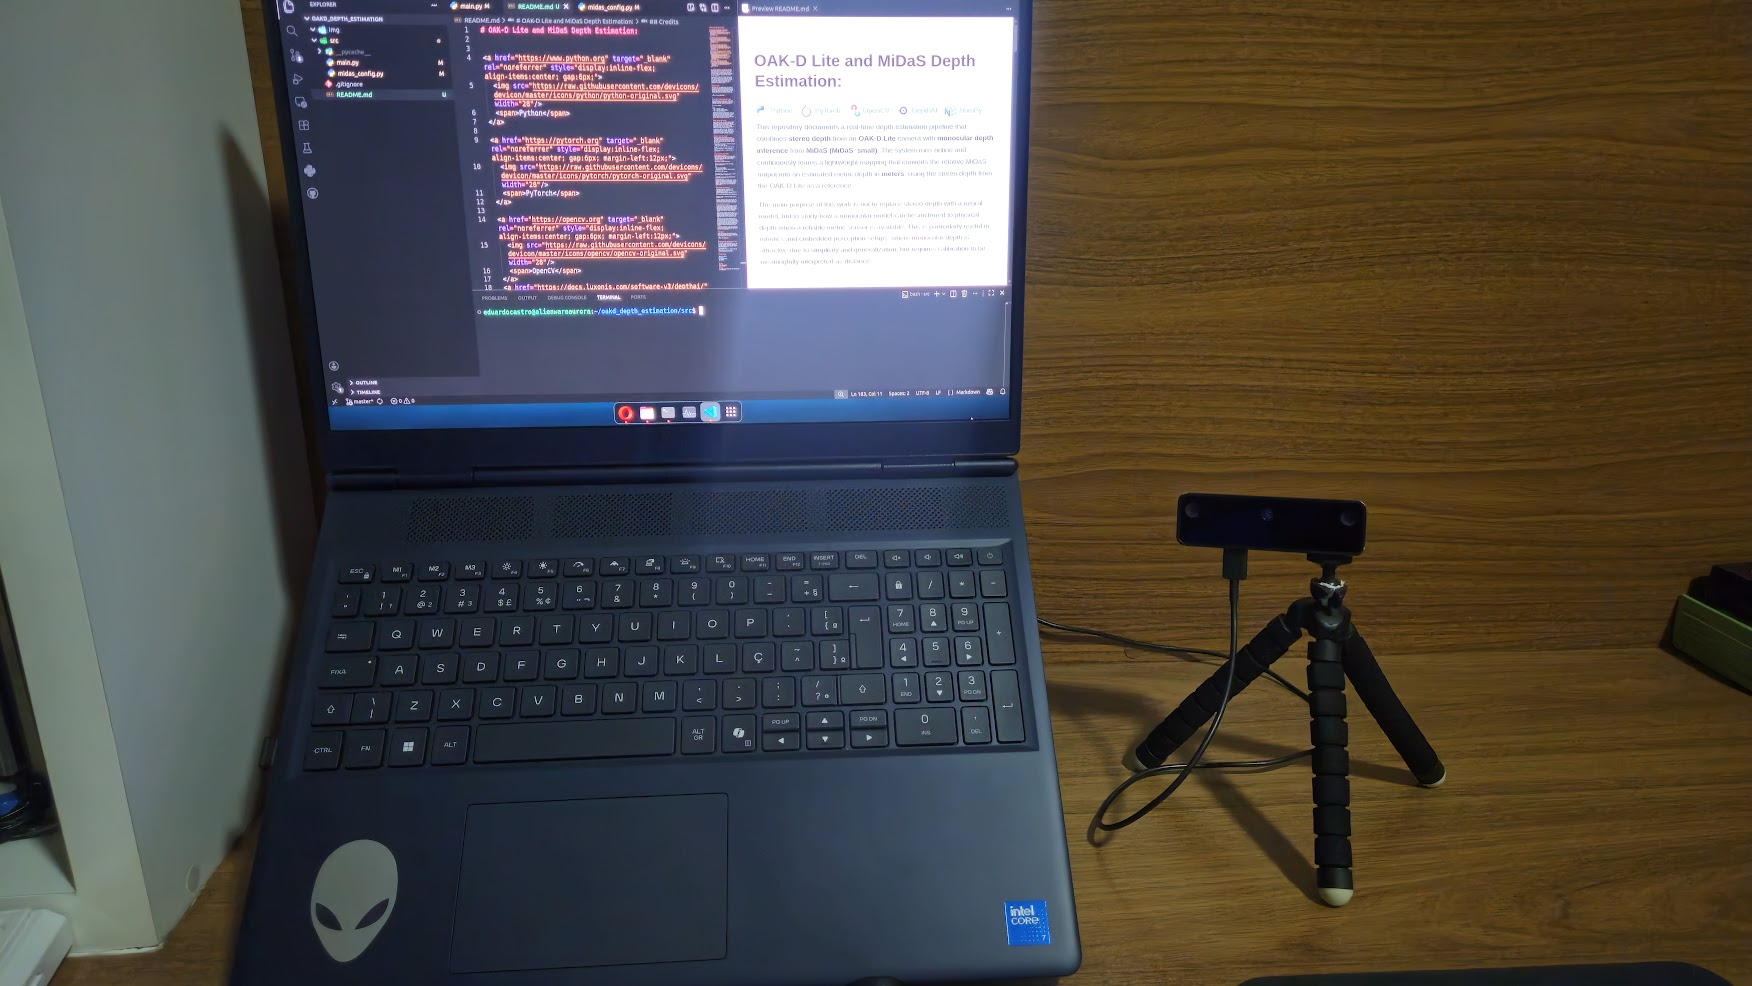
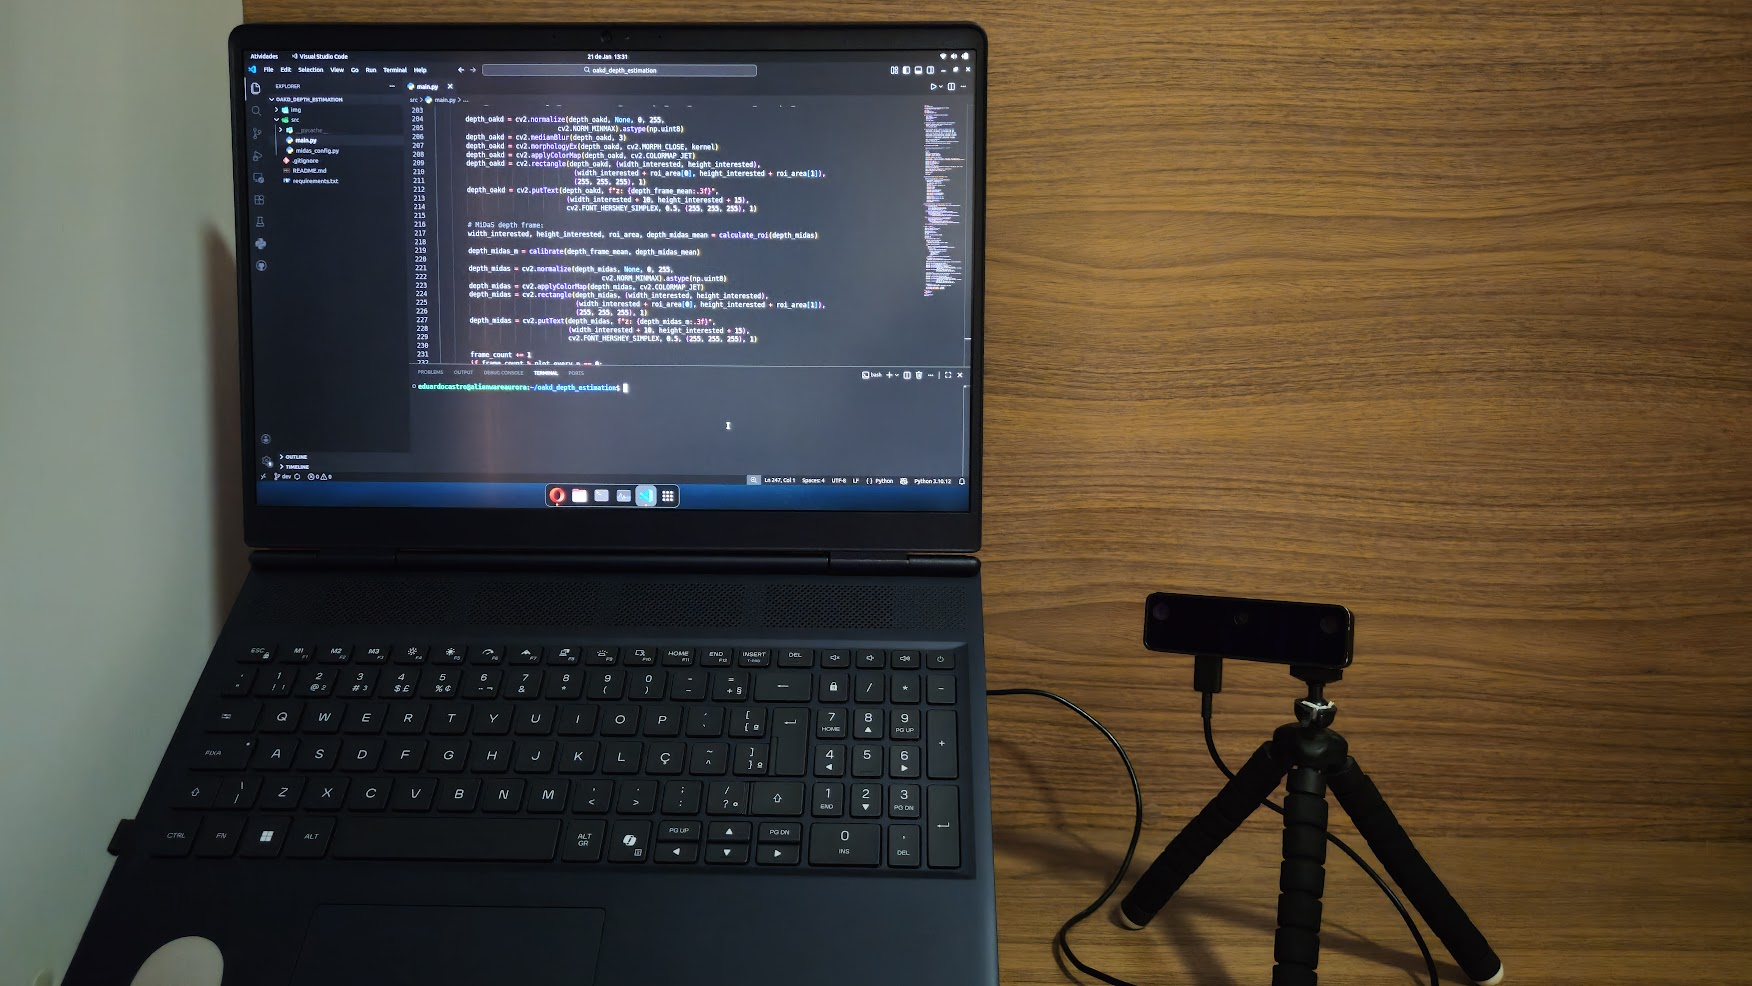
docs(README.md): fix equations not rendered by GitHub and update setup image

diff --git a/README.md b/README.md
@@ -1,6 +1,6 @@
 # OAK-D Lite and MiDaS Depth Estimation: 
 
-<div align="center">
+
 <a href="https://www.python.org" target="_blank" rel="noreferrer" style="display:inline-flex; align-items:center; gap:6px;">
   <img src="https://raw.githubusercontent.com/devicons/devicon/master/icons/python/python-original.svg" width="28"/>
   <span>Python</span>
@@ -23,10 +23,8 @@
   <img src="https://raw.githubusercontent.com/devicons/devicon/master/icons/numpy/numpy-original.svg" width="28"/>
   <span>NumPy</span>
 </a>
-</div>
 
-</br>
-</br>
+
 
 This repository documents a real-time depth estimation pipeline that combines **stereo depth** from an **OAK-D Lite** camera with **monocular depth inference** from **MiDaS (MiDaS_small)**. The system runs online and continuously learns a lightweight mapping that converts the relative MiDaS output into an estimated metric depth in **meters**, using the stereo depth from the OAK-D Lite as a reference.
 
@@ -59,15 +57,17 @@ The **OAK-D Lite** is a DepthAI device that integrates a color camera (RGB) and 
 
 Stereo depth relies on **triangulation**. Given a point observed in both left and right images, its horizontal displacement (disparity) is proportional to depth. In a simplified pinhole model, depth can be expressed as:
 
-\[
-Z = \frac{f \cdot B}{d}
-\]
+<div align="center">
+Z = (f * B) / d
+
+</div>
+
 
 Where:
-- \(Z\) is the depth in meters,
-- \(f\) is the focal length (in pixels),
-- \(B\) is the stereo baseline (meters),
-- \(d\) is the disparity (pixels).
+- Z is the depth in meters,
+- f is the focal length (in pixels),
+- B is the stereo baseline (meters),
+- d is the disparity (pixels).
 
 The OAK-D depth pipeline estimates disparity, refines it internally, and produces a dense depth map. In practice, stereo depth has characteristic limitations: it depends on texture, fails on reflective surfaces, and may produce invalid pixels (often 0) in occluded regions. For this reason, this project focuses on a region-based statistic rather than pixel-wise comparison.
 
@@ -90,8 +90,8 @@ Within the ROI, only valid values contribute to the mean:
 - values strictly greater than zero
 
 This provides a stable scalar depth estimate for both sources:
-- \( \overline{Z}_{oak} \): average stereo depth in meters
-- \( \overline{D}_{midas} \): average MiDaS depth in relative units
+- Zoak: average stereo depth in meters
+- Dmidas: average MiDaS depth in relative units
 
 ---
 
@@ -103,25 +103,30 @@ MiDaS produces relative depth values that often behave like a **disparity-like**
 ### Adopted inverse model
 The calibration uses the following model:
 
-\[
-\overline{Z}_{oak} \approx \frac{a}{(\overline{D}_{midas} + \varepsilon)} + b
-\]
+
+<div align="center">
+Z_oak_mean ≈ a / (D_midas_mean + eps) + b
+</div>
+
 
 Where:
-- \(a\) is a scale parameter,
-- \(b\) is an offset parameter,
-- \(\varepsilon\) is a numerical stability constant to avoid division by zero.
+- a is a scale parameter,
+- b is an offset parameter,
+- eps is a numerical stability constant to avoid division by zero.
 
 Rewriting as a linear regression:
+<div align="center">
 
-\[
-\overline{Z}_{oak} = a \cdot x + b, \quad x = \frac{1}{(\overline{D}_{midas} + \varepsilon)}
-\]
+Z_oak_mean = a * x + b,
+</div>
+
+where x = 1 / (D_midas_mean + eps)
+
 
 The parameters \(a\) and \(b\) are estimated by least squares using `numpy.polyfit(x, y, 1)`.
 
 ### Online update logic
-During runtime, pairs \((\overline{D}_{midas}, \overline{Z}_{oak})\) are appended to a rolling buffer. The first calibration is computed once a minimum amount of data is available. After this, the calibration is periodically updated to compensate for drift in the monocular scale caused by lighting, exposure, scene texture and ROI content changes.
+During runtime, pairs (Dmidas, Zoak) are appended to a rolling buffer. The first calibration is computed once a minimum amount of data is available. After this, the calibration is periodically updated to compensate for drift in the monocular scale caused by lighting, exposure, scene texture and ROI content changes.
 
 ---
 
@@ -129,14 +134,16 @@ During runtime, pairs \((\overline{D}_{midas}, \overline{Z}_{oak})\) are appende
 
 The system displays three synchronized windows:
 - RGB frame captured from OAK-D Lite,
-- OAK-D stereo depth map with ROI overlay and \( \overline{Z}_{oak} \) in meters,
-- MiDaS depth map with ROI overlay and calibrated metric estimate \( \widehat{Z}_{midas} \) in meters.
+- OAK-D stereo depth map with ROI overlay and Zoak in meters,
+- MiDaS depth map with ROI overlay and calibrated metric estimate Zmidas in meters.
 
 After calibration, the MiDaS ROI depth is interpreted as:
 
-\[
-\widehat{Z}_{midas} = \frac{a}{(\overline{D}_{midas} + \varepsilon)} + b
-\]
+<div align="center">
+
+Z_midas_hat = a / (D_midas_mean + eps) + b
+</div>
+
 
 This metric estimate is locally valid within the scene conditions that produced the calibration sample set. It should be treated as an empirical metric mapping rather than an absolute guarantee of monocular metric depth.
 
